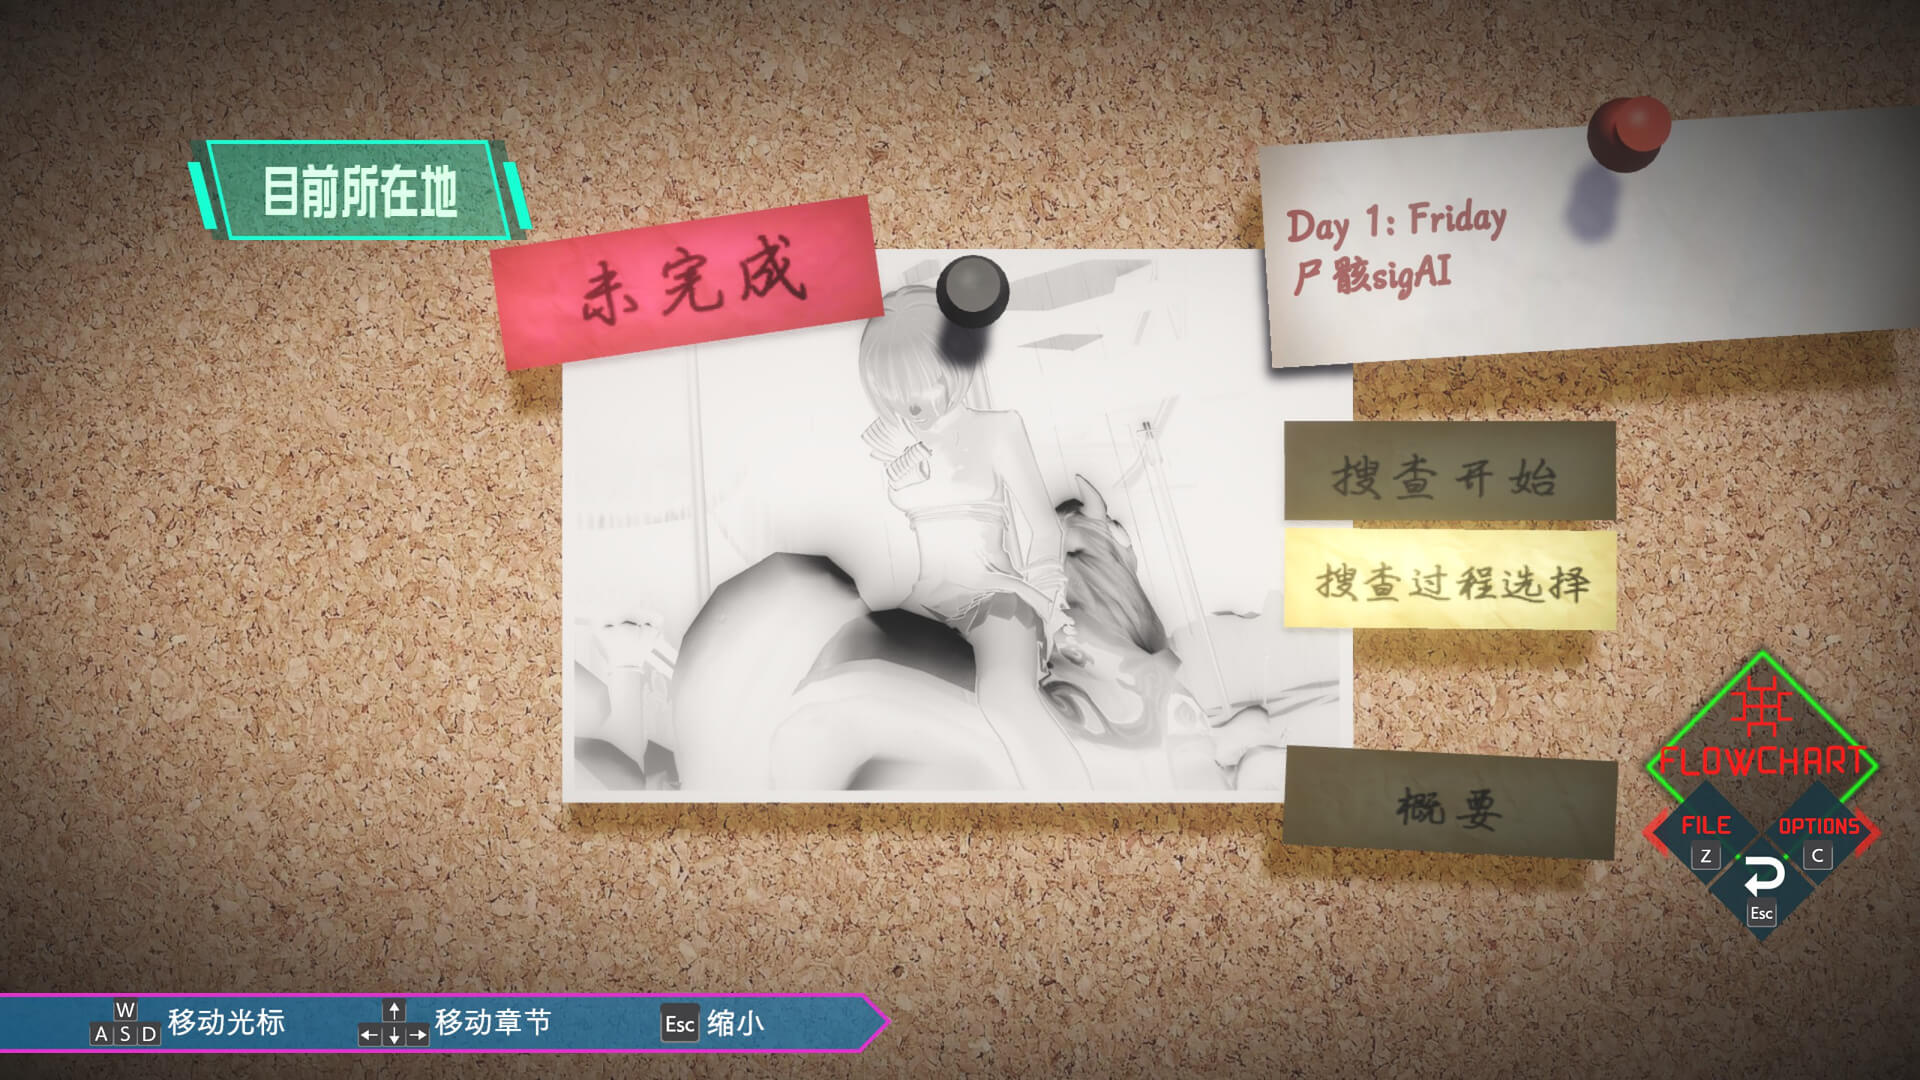
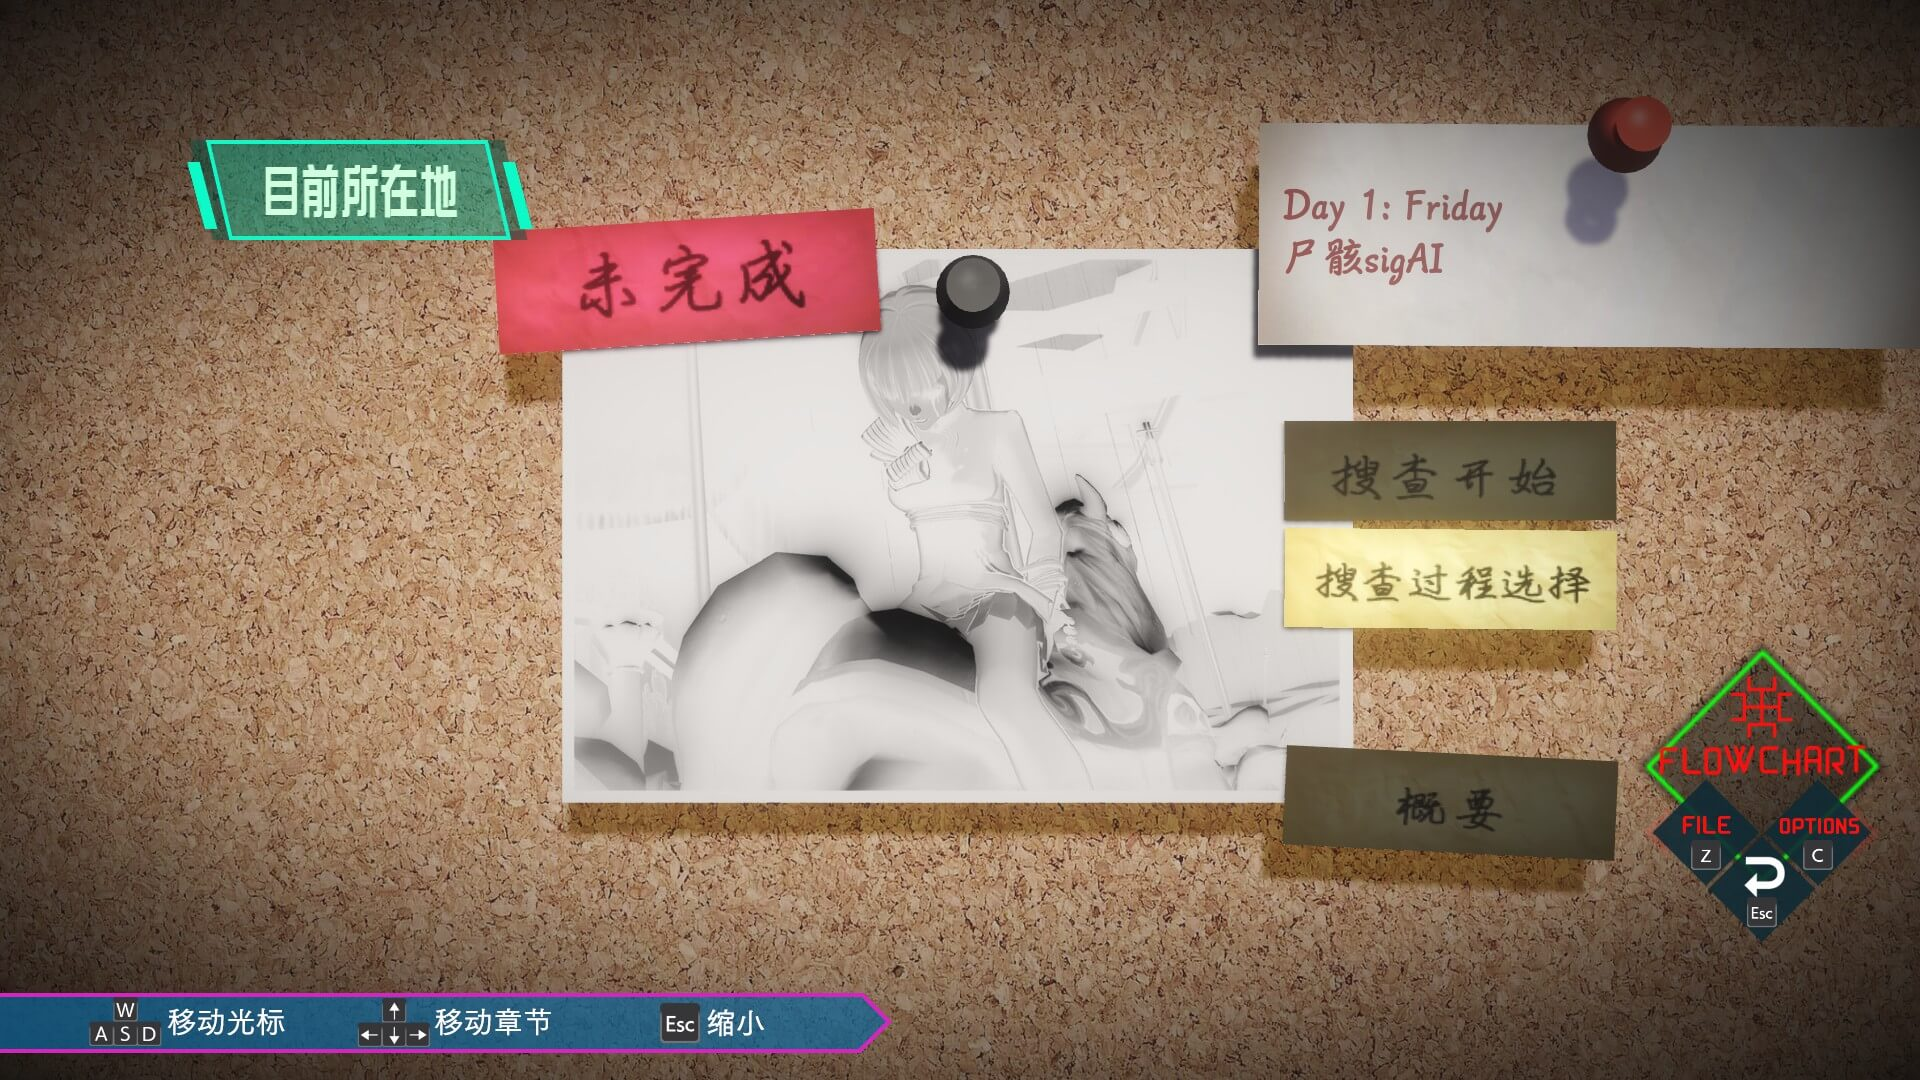
Remove DFT_HF3 dilate

diff --git a/README.md b/README.md
@@ -11,6 +11,9 @@
 - 根据日文字型字重匹配字体
 - 同上，修改部分贴图
 - TextMeshPro对TrueType和OpenType特性支持非常有限，排版效果并不好（例如无法实现标点挤压），停用直角引号简化
+- 删除华康秀风体的伪粗体描边（Dilate）
+
+注意：由于Dilate由Material负责，不在补丁工具的修改范围内，只能采取最原始的mod方法，另外提供`resources.assets`和`font`的替换文件。
 
 ## 字体匹配
 
@@ -53,9 +56,5 @@
 
 ## 已知问题
 
-1. 华康秀风体的诅咒1：\
-   仍有部分UI在替换同源字体后依然比日文显示效果粗，排查得知是为了让华康秀风体匹配这一堆不同字重的字体而设置了`_FaceDilate`，存储在对应字体的Material中，在补丁制作工具的读取修改范围外。\
-   可以简单的通过UABE导出修改并重新导入，但自动化……
-
-3. 华康秀风体的诅咒2：\
-   ![华康秀风体的诅咒](assets/images/screenshot-10.jpg)
+华康秀风体的诅咒：\
+![华康秀风体的诅咒](assets/images/screenshot-10.jpg)
